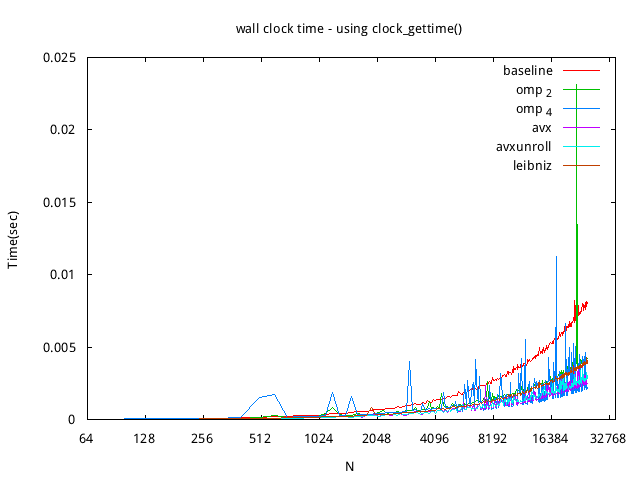
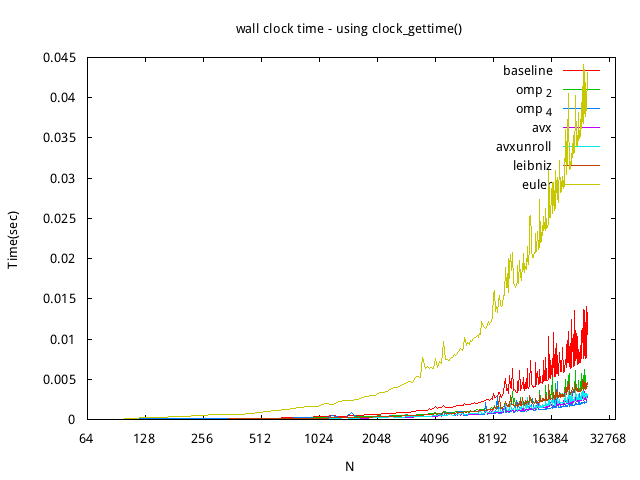
implement compute_pi_euler

diff --git a/benchmark_clock_gettime.c b/benchmark_clock_gettime.c
@@ -72,6 +72,16 @@ int main(int argc, char const *argv[])
         compute_pi_leibniz(N);
     }
     clock_gettime(CLOCK_ID, &end);
+    printf("%lf,", (double) (end.tv_sec - start.tv_sec) +
+        (end.tv_nsec - start.tv_nsec)/ONE_SEC);
+
+
+    //euler
+    clock_gettime(CLOCK_ID, &start);
+    for(i = 0; i < loop; i++) {
+        compute_pi_euler(N);
+    }
+    clock_gettime(CLOCK_ID, &end);
     printf("%lf\n", (double) (end.tv_sec - start.tv_sec) +
         (end.tv_nsec - start.tv_nsec)/ONE_SEC);
 

diff --git a/time_test.c b/time_test.c
@@ -29,7 +29,11 @@ int main(int argc, char const *argv[])
 #if defined(LEIBNIZ)
     pi = compute_pi_leibniz(N);
 #endif    
-    printf("N = %d , pi = %lf\n", N, pi);
 
+#if defined(EULER)
+    pi = compute_pi_euler(N);
+#endif    
+
+    printf("N = %d , pi = %lf\n", N, pi);
     return 0;
 }

diff --git a/computepi.c b/computepi.c
@@ -130,3 +130,14 @@ double compute_pi_leibniz(size_t N)
     }
     return pi * 4.0;
 }
+
+double compute_pi_euler(size_t N)
+{
+    double pi = 0.0;
+    for(int i=0; i<N; i++)
+    {
+        pi += (double) (1/pow(i,2));        
+    }
+    pi *=6;
+    return sqrt(pi);
+}

diff --git a/computepi.h b/computepi.h
@@ -5,3 +5,4 @@ double compute_pi_openmp(size_t N, int threads);
 double compute_pi_avx(size_t N);
 double compute_pi_avx_unroll(size_t N);
 double compute_pi_leibniz(size_t N);
+double compute_pi_euler(size_t N);
